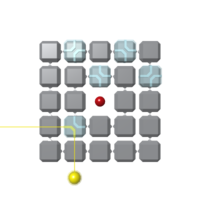
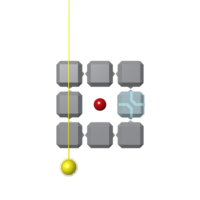
first stages introducing

Changed region(s): [[0.0, 0.0, 0.81, 0.93]]

diff --git a/public/d/j.js b/public/d/j.js
@@ -34476,7 +34476,7 @@ return child;
 window.o.ViewStages = Stages = function(_super) {
 __extends(Stages, _super);
 Stages.prototype.className = "stages";
-Stages.prototype.template = "<nav>\n  <ul>\n    <% for(var i=0; i<stages; i++) {%>\n    <% if(i % 9 == 0 && i > 0){\n      if (i > last) { break; }\n      %>\n      </ul><ul>\n    <% } %>\n      <li data-id='<%= (i+1) %>'<% if(i >= last){ %> class='stages-locked'<% } %>><img src='stage/l-<%= i %>.png' /></li>\n    <% } %>\n  </ul>\n</nav>\n<button class='stages-next'></button>\n<button class='stages-previous'></button>";
+Stages.prototype.template = "<nav>\n  <ul>\n    <% for(var i=0; i<stages; i++) {%>\n    <% if(i % 9 == 0 && i > 0){\n      if (i > last) { break; }\n      %>\n      </ul><ul>\n    <% } %>\n      <li data-id='<%= (i+1) %>'<% if(i >= last){ %> class='stages-locked'<% } %>><img src='stage/l-<%= (i + 1) %>.png' /></li>\n    <% } %>\n  </ul>\n</nav>\n<button class='stages-next'></button>\n<button class='stages-previous'></button>";
 Stages.prototype.events = {
 "click .stages-next": function() {
 return this.page(1);
@@ -34754,7 +34754,7 @@ return GameHelp;
 }).call(this);
 
 (function() {
-window.o.GameMapData = [ "000\n092\n000\n800", "01020\n00201\n00900\n02000\n00000\n-8---", "200\n190\n200\n800", "01020\n00201\n00900\n02000\n00000\n08000" ];
+window.o.GameMapData = [ "000\n092\n000\n800", "000\n091\n000\n800", "200\n190\n200\n800", "102\n290\n000\n800", "110\n292\n020\n080", "01020\n00201\n00900\n02000\n00000\n08000", "0000020\n0100000\n2100020\n1119000\n0100000\n1001110\n2001000\n0800000" ];
 }).call(this);
 
 (function() {
@@ -34997,13 +34997,18 @@ scene = this._scene = new BABYLON.Scene(engine);
 scene.registerBeforeRender(this._render_before_loop.bind(this));
 scene.clearColor = new BABYLON.Color4(0, 0, 0, 0);
 this._camera = camera = new BABYLON.ArcRotateCamera("Camera", 0, 0, 100, BABYLON.Vector3.Zero(), this._scene);
-this._camera.setPosition(new BABYLON.Vector3(0, 0, -120));
+this._camera.setPosition(new BABYLON.Vector3(0, 0, -150));
 this._light = new BABYLON.HemisphericLight("Light", new BABYLON.Vector3(-40, 60, -100), this._scene);
 return window.App.events.trigger("game:init", scene, engine, this._light, this._camera);
 };
 Game.prototype.load_map = function(id, callback) {
 return setTimeout(function(_this) {
 return function() {
+if (window.o.GameMapData[id - 1].length < 20) {
+_this._camera.setPosition(new BABYLON.Vector3(0, 0, -100));
+} else if (window.o.GameMapData[id - 1].length < 50) {
+_this._camera.setPosition(new BABYLON.Vector3(0, 0, -120));
+}
 _this._map.load(window.o.GameMapData[id - 1]);
 return callback();
 };
@@ -35143,10 +35148,10 @@ App.router = new window.o.ViewRouter({
 user: App.user.data("type") || "free",
 author_link: false,
 user_types: {
-free: 2,
-shared: 3
+free: 20,
+shared: 30
 },
-game_last: parseInt(App.user.data("game_last") || 1),
+game_last: parseInt(App.user.data("game_last") || 100),
 game_save: function(stage) {
 return App.user.data("game_last", stage);
 }
